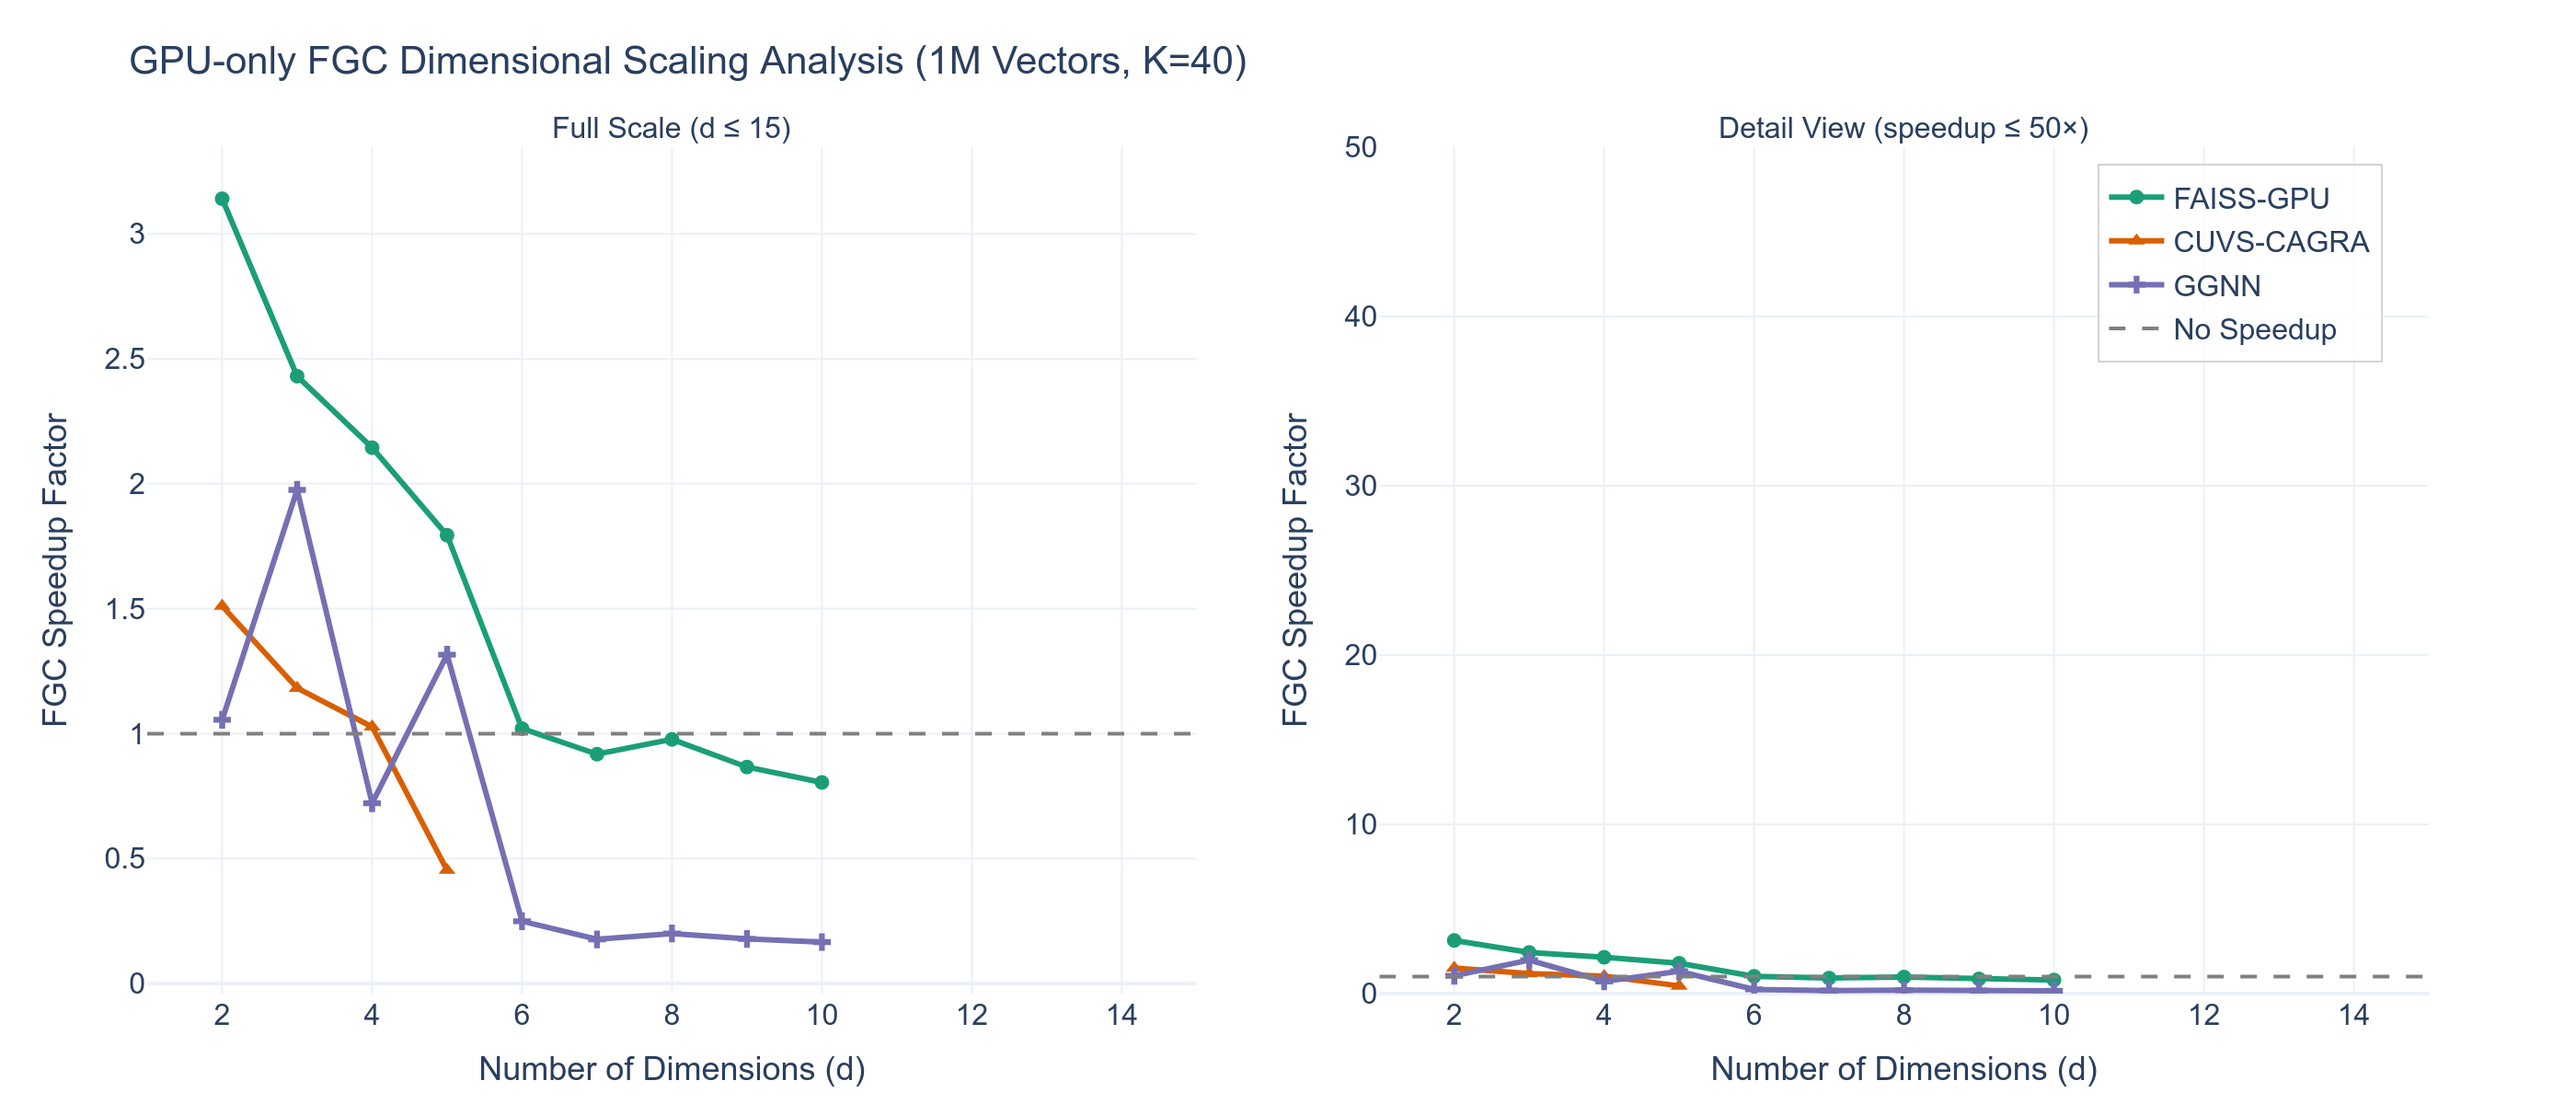
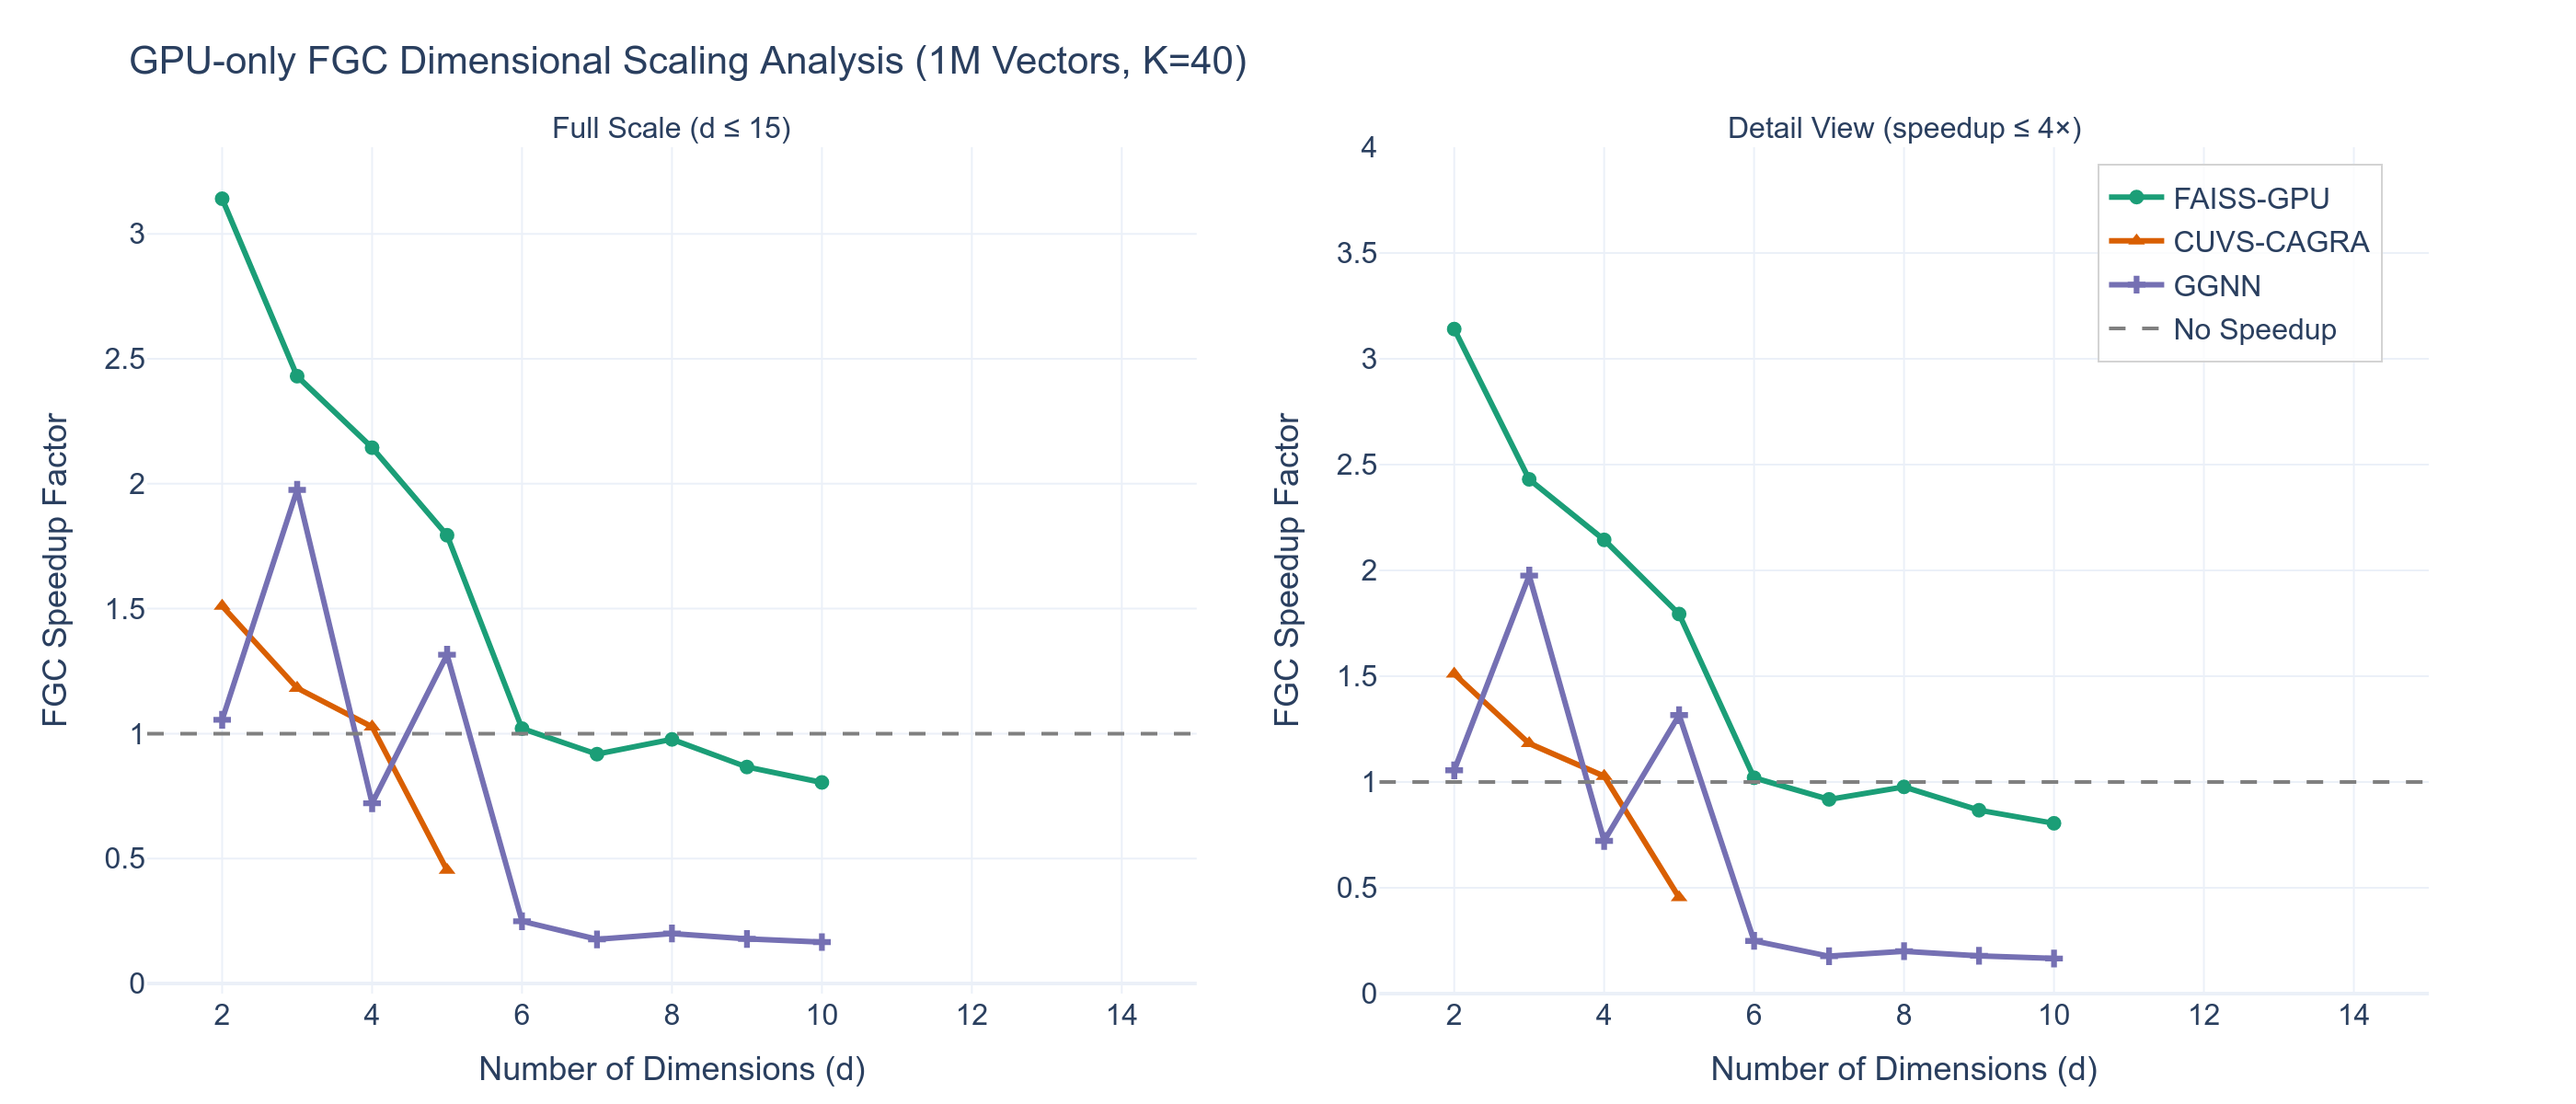
fix detail view cap and controlled-comparison subtitle placement
Dimensional scaling detail view was capped at 50x but all data fits in 0-3.5x,
making it identical to the full-scale panel. Lowered cap to 4x so it zooms.

Recall controlled-comparison subtitle was cramped inside the title as <sub> text.
Moved to a proper annotation below the bars for clean breathing room.

diff --git a/process_gpu_csvs.py b/process_gpu_csvs.py
@@ -733,9 +733,7 @@ def plot_recall_controlled_speed(
             ), row=1, col=col_idx)
 
     fig.update_layout(
-        title=f"Query Speed Comparison (N={points:,}, k={k})<br>"
-              f"<sub>Approximate methods shown at their highest achievable recall (annotated). "
-              f"None reach {int(target_recall*100)}% recall at these settings.</sub>",
+        title=f"Query Speed Comparison (N={points:,}, k={k})",
         yaxis_title="Time (ms)",
         yaxis=dict(gridcolor="lightgray", showline=True, linecolor="#444", linewidth=1),
         xaxis=dict(showline=True, linecolor="#444", linewidth=1),
@@ -743,9 +741,18 @@ def plot_recall_controlled_speed(
         font=dict(family="Arial", size=16),
         plot_bgcolor="white",
         paper_bgcolor="white",
-        legend=dict(orientation="h", yanchor="top", y=-0.15, xanchor="center", x=0.5,
+        legend=dict(orientation="h", yanchor="top", y=-0.18, xanchor="center", x=0.5,
                     bgcolor="rgba(255,255,255,0.85)", bordercolor="lightgray", borderwidth=1),
-        margin=dict(t=110, b=110, l=80, r=40),
+        margin=dict(t=90, b=130, l=80, r=40),
+    )
+    fig.add_annotation(
+        text=(f"Approximate methods shown at their highest achievable recall (annotated). "
+              f"None reach {int(target_recall*100)}% recall at these settings."),
+        xref="paper", yref="paper",
+        x=0.5, y=-0.12,
+        showarrow=False,
+        font=dict(size=12, color="gray"),
+        align="center",
     )
     return fig
 
@@ -1089,7 +1096,7 @@ def create_plots() -> None:
         size=1_000_000,
         k=40,
         max_dimensions=15,
-        y_axis_cap=50,
+        y_axis_cap=4,
     )
     save_figure(fig4, os.path.join(
         PLOTS_DIR, "gpu_fgc_dimensional_scaling_1M_k40_all_algorithms.png"), 1400, 600)
